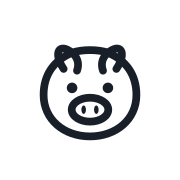
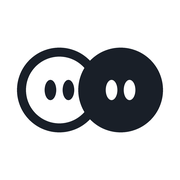
앱 아이콘 '부부 동전 코' + 앱 설치 준비(PWA)
- 아이콘: 흰 동전(아내)·검은 동전(남편)이 살짝 겹친 돼지 코. scripts/make-icons.py로 만든다
  (192·512, 안드로이드 둥근 아이콘용 maskable, apple-touch-icon, favicon.svg)
- manifest.webmanifest: 이름 '모아불리 가계부', 전체 화면, start_url ?src=app (앱으로 들어온 사람 집계)
- sw.js: 화면 파일은 저장하지 않는다(배포가 바로 보이게). 인터넷이 끊겼을 때만 offline.html
- _headers: sw.js는 no-cache, manifest 형식 지정
- 플레이 스토어(TWA) 포장의 전제 조건

Changed region(s): [[0.0833, 0.2222, 0.9167, 0.8056]]

diff --git a/public/sw.js b/public/sw.js
@@ -1,0 +1,25 @@
+// 모아불리 서비스 워커 — 앱 설치(홈 화면 · 플레이 스토어)에 필요한 최소한만 한다.
+//
+// 화면 파일(JS·CSS)은 저장하지 않는다. 옛 파일을 붙잡고 있으면 새로 배포해도 안 보이기 때문이다.
+// 인터넷이 끊긴 채로 앱을 열었을 때만 안내 화면(offline.html)을 보여준다.
+const CACHE = 'moabuli-offline-v1'
+const OFFLINE = '/offline.html'
+
+self.addEventListener('install', (event) => {
+  event.waitUntil(caches.open(CACHE).then((c) => c.add(OFFLINE)))
+  self.skipWaiting()
+})
+
+self.addEventListener('activate', (event) => {
+  event.waitUntil(
+    caches
+      .keys()
+      .then((keys) => Promise.all(keys.filter((k) => k !== CACHE).map((k) => caches.delete(k))))
+      .then(() => self.clients.claim()),
+  )
+})
+
+self.addEventListener('fetch', (event) => {
+  if (event.request.mode !== 'navigate') return
+  event.respondWith(fetch(event.request).catch(() => caches.match(OFFLINE)))
+})

diff --git a/public/offline.html b/public/offline.html
@@ -1,0 +1,23 @@
+<!doctype html>
+<html lang="ko">
+  <head>
+    <meta charset="UTF-8" />
+    <meta name="viewport" content="width=device-width, initial-scale=1.0" />
+    <title>모아불리 가계부</title>
+    <style>
+      body { margin: 0; min-height: 100vh; display: flex; align-items: center; justify-content: center;
+        background: #F2F4F6; color: #191F28; text-align: center;
+        font-family: -apple-system, BlinkMacSystemFont, 'Apple SD Gothic Neo', 'Malgun Gothic', sans-serif; }
+      img { width: 72px; height: 72px; border-radius: 16px; }
+      h1 { font-size: 19px; margin: 18px 0 6px; }
+      p { font-size: 14px; color: #4E5968; margin: 0; line-height: 1.6; }
+    </style>
+  </head>
+  <body>
+    <main>
+      <img src="/icons/icon-192.png" alt="" />
+      <h1>인터넷에 연결되지 않았어요</h1>
+      <p>연결되면 앱을 다시 열어주세요.<br />적어 둔 기록은 그대로 있어요.</p>
+    </main>
+  </body>
+</html>

diff --git a/src/main.tsx b/src/main.tsx
@@ -9,6 +9,15 @@ import { hashFromPath } from './lib/pathToHash'
 const fixed = hashFromPath(window.location.pathname, window.location.search, window.location.hash)
 if (fixed) window.history.replaceState(null, '', fixed)
 
+// 앱 설치용 서비스 워커 — 배포본에서만. 화면 파일은 저장하지 않는다(public/sw.js 참고)
+if (import.meta.env.PROD && 'serviceWorker' in navigator) {
+  window.addEventListener('load', () => {
+    navigator.serviceWorker.register('/sw.js').catch(() => {
+      /* 등록 실패해도 앱은 그대로 쓴다 */
+    })
+  })
+}
+
 // GitHub Pages는 SPA 경로 새로고침 시 404를 반환하므로 해시 라우팅 사용
 ReactDOM.createRoot(document.getElementById('root')!).render(
   <React.StrictMode>

diff --git a/index.html b/index.html
@@ -8,6 +8,9 @@
     <!-- 파비콘 / 앱 아이콘 -->
     <link rel="icon" type="image/svg+xml" href="/favicon.svg" />
     <link rel="apple-touch-icon" href="/apple-touch-icon.png" />
+    <link rel="icon" type="image/png" sizes="192x192" href="/icons/icon-192.png" />
+    <!-- 앱 설치(홈 화면 · 플레이 스토어) -->
+    <link rel="manifest" href="/manifest.webmanifest" />
 
     <!-- 기본 정보 -->
     <title>모아불리 가계부</title>

diff --git a/scripts/make-icons.py b/scripts/make-icons.py
@@ -1,0 +1,95 @@
+"""
+모아불리 앱 아이콘 만들기 — '부부 동전 코' (2026-10-05 결정).
+
+흰 동전(아내)과 검은 동전(남편)이 겹쳐 있고, 각각 돼지 코 구멍이 둘.
+100칸 격자 위에 그린 모양을 8배로 크게 그린 뒤 줄여서 가장자리를 부드럽게 한다.
+
+실행:  py scripts/make-icons.py
+결과:  public/icons/icon-192.png, icon-512.png, maskable-512.png
+       public/apple-touch-icon.png, public/favicon.svg
+"""
+from pathlib import Path
+from PIL import Image, ImageDraw
+
+ROOT = Path(__file__).resolve().parent.parent
+PUBLIC = ROOT / "public"
+INK = (25, 31, 40, 255)  # #191F28 — 앱의 ink 색
+WHITE = (255, 255, 255, 255)
+SS = 8  # 슈퍼샘플링 배율
+
+# 100칸 격자 기준 모양 (cx, cy, r) — 세로 가운데 50
+# 두 동전을 살짝만 겹친다 — 많이 겹치면 흰 동전 코 구멍이 가려져 초승달처럼 보인다
+COIN_R = 21
+STROKE = 5
+WIFE = (33, 50)  # 흰 동전
+HUSBAND = (67, 50)  # 검은 동전
+NOSE = (5, 3.2, 5.6)  # 코 구멍: 동전 중심에서 ±5, 반지름 가로 3.2 세로 5.6
+
+
+def draw(size: int, scale: float = 1.0) -> Image.Image:
+    """size 픽셀 정사각형. scale<1이면 가운데로 모아서(안드로이드 둥근 아이콘 여백) 그린다."""
+    big = size * SS
+    img = Image.new("RGBA", (big, big), WHITE)
+    d = ImageDraw.Draw(img)
+    u = big / 100 * scale
+    off = big / 2 - 50 * u
+
+    def P(x, y):
+        return off + x * u, off + y * u
+
+    def circle(c, r, fill):
+        x, y = P(*c)
+        d.ellipse([x - r * u, y - r * u, x + r * u, y + r * u], fill=fill)
+
+    def nostril(cx, cy, fill):
+        dx, rx, ry = NOSE
+        for sx in (-dx, dx):
+            x, y = P(cx + sx, cy)
+            d.ellipse([x - rx * u, y - ry * u, x + rx * u, y + ry * u], fill=fill)
+
+    outer = COIN_R + STROKE / 2
+    inner = COIN_R - STROKE / 2
+    # 흰 동전: 검은 테두리 + 흰 속
+    circle(WIFE, outer, INK)
+    circle(WIFE, inner, WHITE)
+    nostril(*WIFE, INK)
+    # 검은 동전이 위에 겹친다
+    circle(HUSBAND, outer, INK)
+    nostril(*HUSBAND, WHITE)
+
+    return img.resize((size, size), Image.LANCZOS)
+
+
+def favicon_svg() -> str:
+    o = COIN_R + STROKE / 2
+    i = COIN_R - STROKE / 2
+    (wx, wy), (hx, hy) = WIFE, HUSBAND
+    dx, rx, ry = NOSE
+    return f"""<svg viewBox="0 0 100 100" xmlns="http://www.w3.org/2000/svg">
+  <!-- 모아불리 '부부 동전 코' — scripts/make-icons.py가 만든다 -->
+  <rect width="100" height="100" rx="22" fill="#FFFFFF"/>
+  <circle cx="{wx}" cy="{wy}" r="{o}" fill="#191F28"/>
+  <circle cx="{wx}" cy="{wy}" r="{i}" fill="#FFFFFF"/>
+  <ellipse cx="{wx - dx}" cy="{wy}" rx="{rx}" ry="{ry}" fill="#191F28"/>
+  <ellipse cx="{wx + dx}" cy="{wy}" rx="{rx}" ry="{ry}" fill="#191F28"/>
+  <circle cx="{hx}" cy="{hy}" r="{o}" fill="#191F28"/>
+  <ellipse cx="{hx - dx}" cy="{hy}" rx="{rx}" ry="{ry}" fill="#FFFFFF"/>
+  <ellipse cx="{hx + dx}" cy="{hy}" rx="{rx}" ry="{ry}" fill="#FFFFFF"/>
+</svg>
+"""
+
+
+def main():
+    icons = PUBLIC / "icons"
+    icons.mkdir(exist_ok=True)
+    draw(192).save(icons / "icon-192.png")
+    draw(512).save(icons / "icon-512.png")
+    # 안드로이드는 아이콘을 원·둥근 사각형 등으로 잘라낸다 — 가운데 80% 안에 들어오게 줄인다
+    draw(512, scale=0.8).save(icons / "maskable-512.png")
+    draw(180).save(PUBLIC / "apple-touch-icon.png")
+    (PUBLIC / "favicon.svg").write_text(favicon_svg(), encoding="utf-8")
+    print("icons written")
+
+
+if __name__ == "__main__":
+    main()
